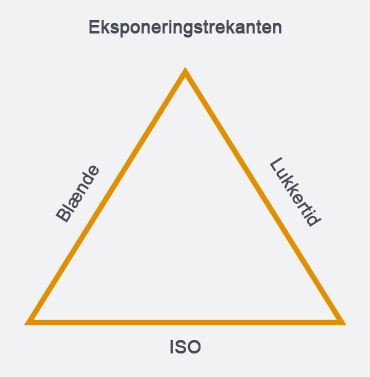
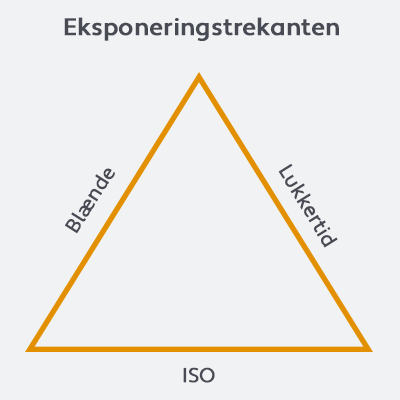
Ændring i portfolio.php og kamerateknik.php + billeder

diff --git a/kamerateknik.php b/kamerateknik.php
@@ -66,7 +66,7 @@
                             
                             <h3 id="eksponeringstrekanten">Eksponeringstrekanten</h3>
                             <p>Denne model illustrerer at blændetallet, lukkertiden og ISO-værdien danner billeders eksponering, altså den mængde lys der rammer sensoren. Derfor er det disse faktorer som man justerer på for at opnå den ”perfekte eksponering”. Eksponeringstrekanten angiver også at de tre parametre påvirker hinanden. Hvis man justerer på ét parameter, skal man derfor også justere de andre parametre, hvis man ønsker at beholde samme eksponering. Dog er det ofte en god idé at undgå at øge ISO-værdien, fordi det skaber støj i billedet (Kjøller, 2021).</p>
-                            <img src="Billeder/Kamerateknik/eksponeringstrekanten.png" alt="Eksponeringstrekanten">  
+                            <img src="Billeder/Kamerateknik/Eksponeringstrekanten.png" alt="Eksponeringstrekanten">  
                             
                         </section>
                     
@@ -75,7 +75,7 @@
                             <h2>Lukker og lukkertid</h2>
                             <p>Lukkeren sidder foran sensoren og åbner hver gang man tager et billede. Man kan justere på hvor lang tid lukkeren skal være åben, hvilket udtrykkes gennem lukkertiden. Jo længere lukkertiden er, desto lysere bliver billedet, men hvis lukkertiden er lang, medfører det også bevægelsessløring og rystelser. Derfor skal man kun anvende lang lukkertid, hvis objektet i billedet er fuldstændig stille, medmindre man decideret ønsker bevægelsessløring i billedet. Nedenstående billede et eksempel på to ens billeder der er taget med forskellig lukkertid (Østergaard, Kamerateknik, 2020). </p>
 
-                            <img class="billeder" src="Billeder/Kamerateknik/kort_og_lang_lukkertid.png" alt="Eksempel på billede med kort lukkertid og eksempel på billede med lang lukkertid">
+                            <img class="billeder" src="Billeder/Kamerateknik/kort_og_lang_lukkertid_eksempel.png" alt="Eksempel på billede med kort lukkertid og eksempel på billede med lang lukkertid">
                         </section>
 
                         <section id="blaende">
@@ -123,21 +123,18 @@
                         <h2 id="kilder">Kilder</h2>
                         <h3>Internetkilder:</h3>
                         <p>
-                            Bogner, C. (25. september 2020). Design: Typografi og typografiens historie. Hentet fra Grundlæggende faglighed: <a href="PDF_filer/typografi.pdf">Typografi.pdf</a>
+                            Østergaard, N. (23. oktober 2020). Kamerateknik. Hentet fra Grundlæggende faglighed: <a href="PDF_filer/introduktion_til_fotografering.pdf">Introduktion til fotografering.pdf</a>
                             <br><br>
-                            Adobe Fonts. (4. januar 2021). Hentet fra fonts.adobe.com: <a href="https://fonts.adobe.com/fonts">https://fonts.adobe.com/fonts</a>
-                           
-                        </p>
-                       
-                        <p>
-                       
+                            Kjøller, J. (6. januar 2021). Vejen til den perfekte eksponering. Hentet fra fotomalia.dk: <a href="https://fotomalia.dk/vejen-til-den-perfekte-eksponering/">https://fotomalia.dk/vejen-til-den-perfekte-eksponering/</a>
+                            <br><br>
+                            Pexels. (28. oktober 2020). Hentet fra pexels.com: <a href="https://www.pexels.com/da-dk/">https://www.pexels.com/da-dk/</a>
+                            
                             <br><br> 
                             
                             <a href="#top">Til toppen</a>
                             
                             <br><br> 
-                            
-                         </p>
+                        </p>
                        
                     </section>
 

diff --git a/portfolio.php b/portfolio.php
@@ -29,20 +29,11 @@
            
                 <section id="mitgrid">
                     
-                        <section id="oversigtoversiden">
-                            <nav>
-                                <ul>
-                                    <li><h2 id="oversigt">Oversigt:</h2></li>
-                                    <li><a class="list-item" href="#forloeb">Forløb</a></li>
-                                    <li><a class="list-item" href="#refleksion"></a>Refleksion</li>
-                                </ul>s
-                            </nav>
-                        </section>
                     
                     <section id="forloeb">
                         <h2>Læringsportfolio</h2>
                         
-                        <h3>Forløb</h3>
+                        <h3>Forløbet</h3>
                         
                         <h4>Emner</h4>
                         <p>Jeg startede forløbet med at danne mig et overblik over de forskellige emner vi har haft om og det gjorde jeg bl.a. ved at gennemgå hver sektion i moodlerummet ’Grundlæggende faglighed’. Dog har vi også haft nogle projekter som ikke er placeret under ’Grundlæggende faglighed’, så derfor gennemgik jeg også de resterende moodlerum. Undervejs skrev jeg alle de forskellige emner ned på et stykke papir og da jeg havde fundet dem alle, besluttede jeg at skrive emnerne ned på individuelle kort for at foretage en kortsortering. Jeg startede med at overveje hvad overskrifterne, altså menupunkterne, skulle være, men besluttede derefter at inddele kortene først. Kortene blev inddelt ud fra hvad jeg synes der passede sammen og derefter besluttede jeg at overskrifterne skulle være ’Kodning’, ’Design’, ’Kommunikation’ og ’Projekter’. Jeg var lidt i tvivl om jeg skulle vælge at bruge ordet ’kodning’ eller om jeg skulle finde på et andet ord f.eks. ’webudvikling’. Dog synes jeg at ordet ’webudvikling’ er et begreb som dækker over alle de emner vi har haft om og derfor valgte jeg ordet ’kodning’. Det er jo også en del af webudvikling at man kan designe logoer og skrive tekster.</p>
